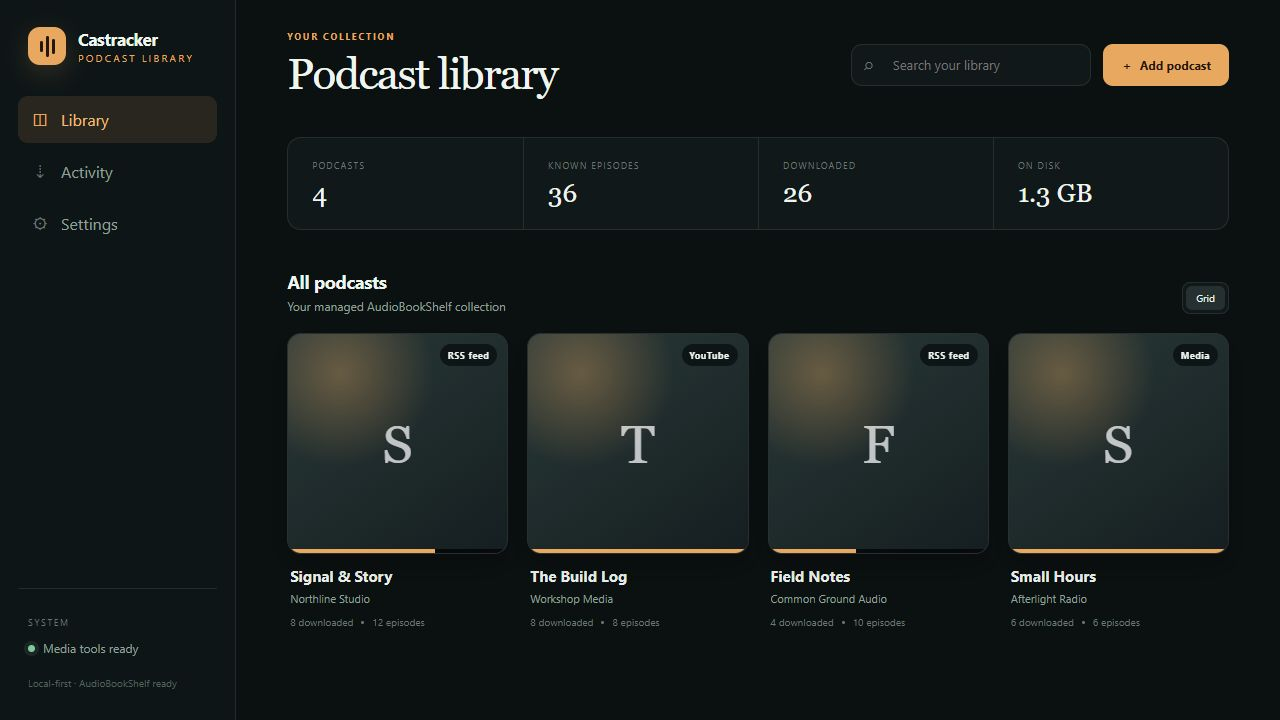
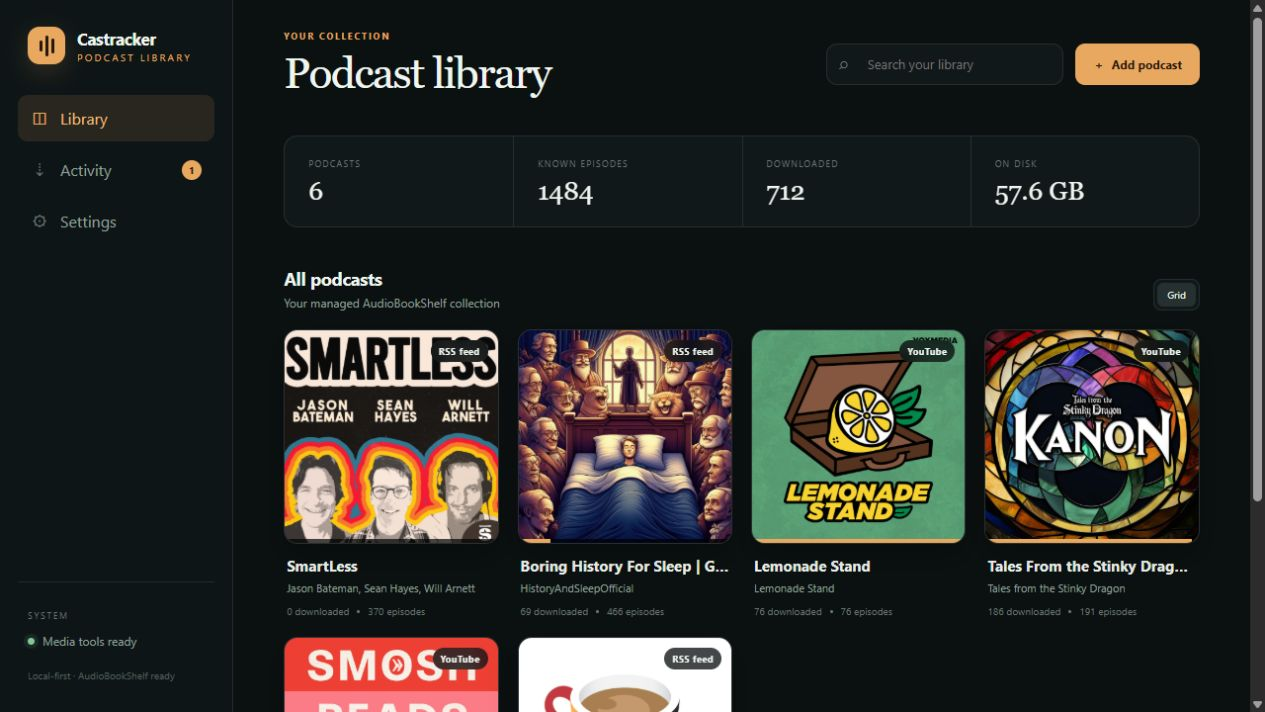
Use real catalogue screenshots

diff --git a/README.md b/README.md
@@ -11,8 +11,6 @@ does not mean that it is licensed for downloading.
 
 ## Screenshots
 
-The screenshots below use fictional demo data.
-
 ### Library overview
 
 ![Castracker podcast library overview](docs/screenshots/library.png)
@@ -21,9 +19,9 @@ The screenshots below use fictional demo data.
 
 ![Castracker podcast details and episode management](docs/screenshots/podcast-detail.png)
 
-### Activity history
+### Add a podcast
 
-![Castracker download and refresh activity history](docs/screenshots/activity.png)
+![Castracker add-podcast workflow](docs/screenshots/add-podcast.png)
 
 ## Responsible use
 
